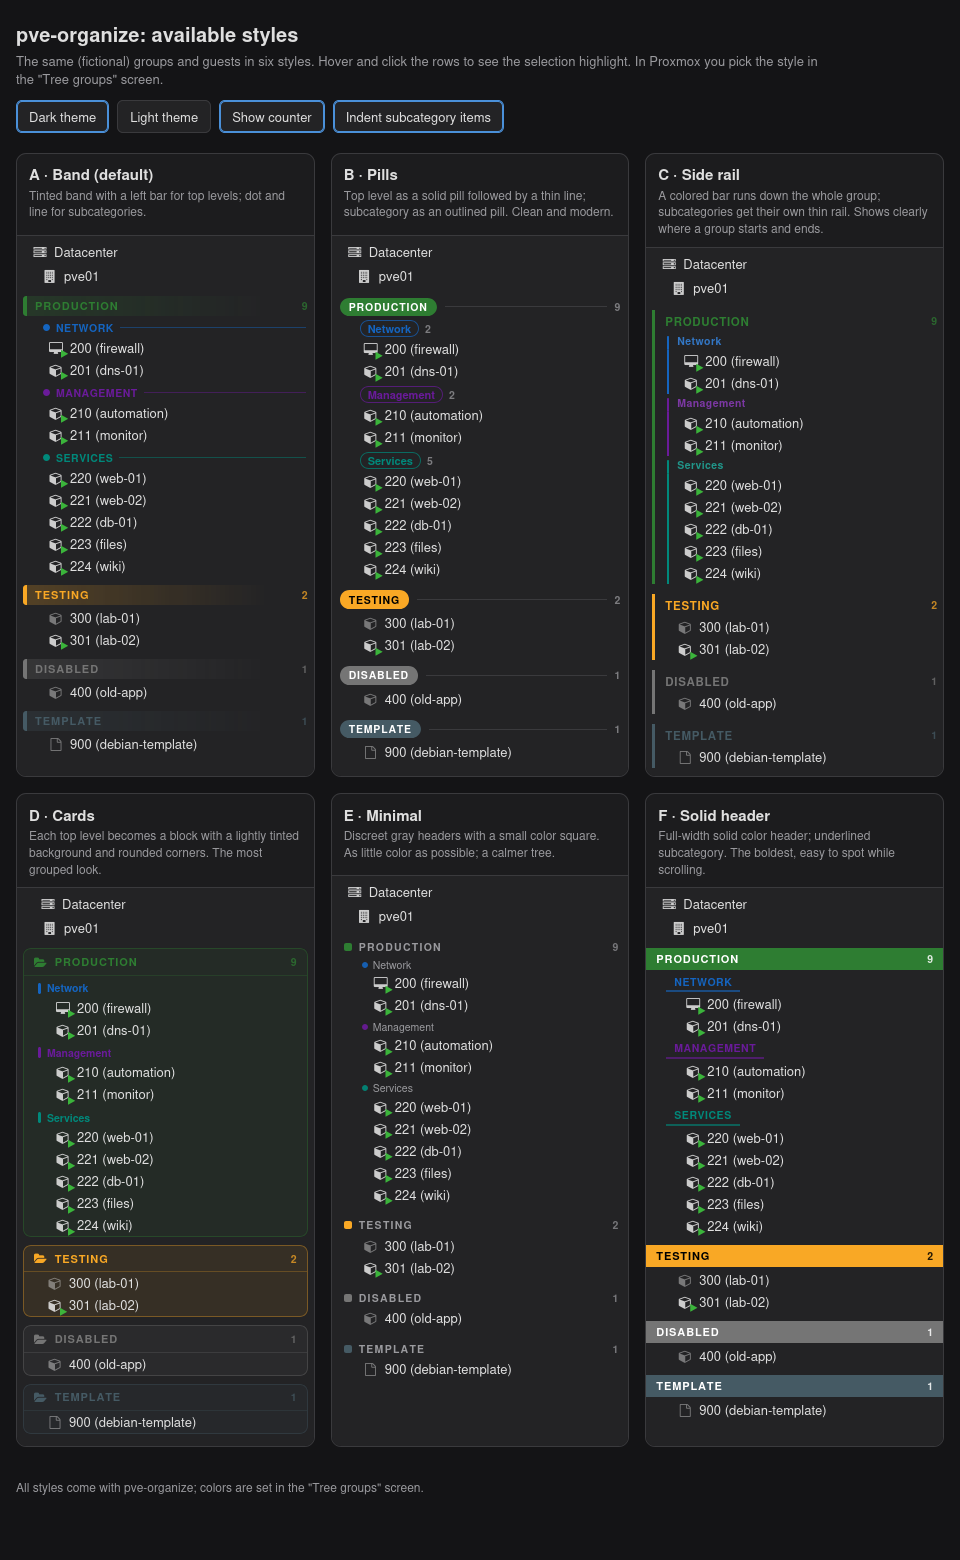
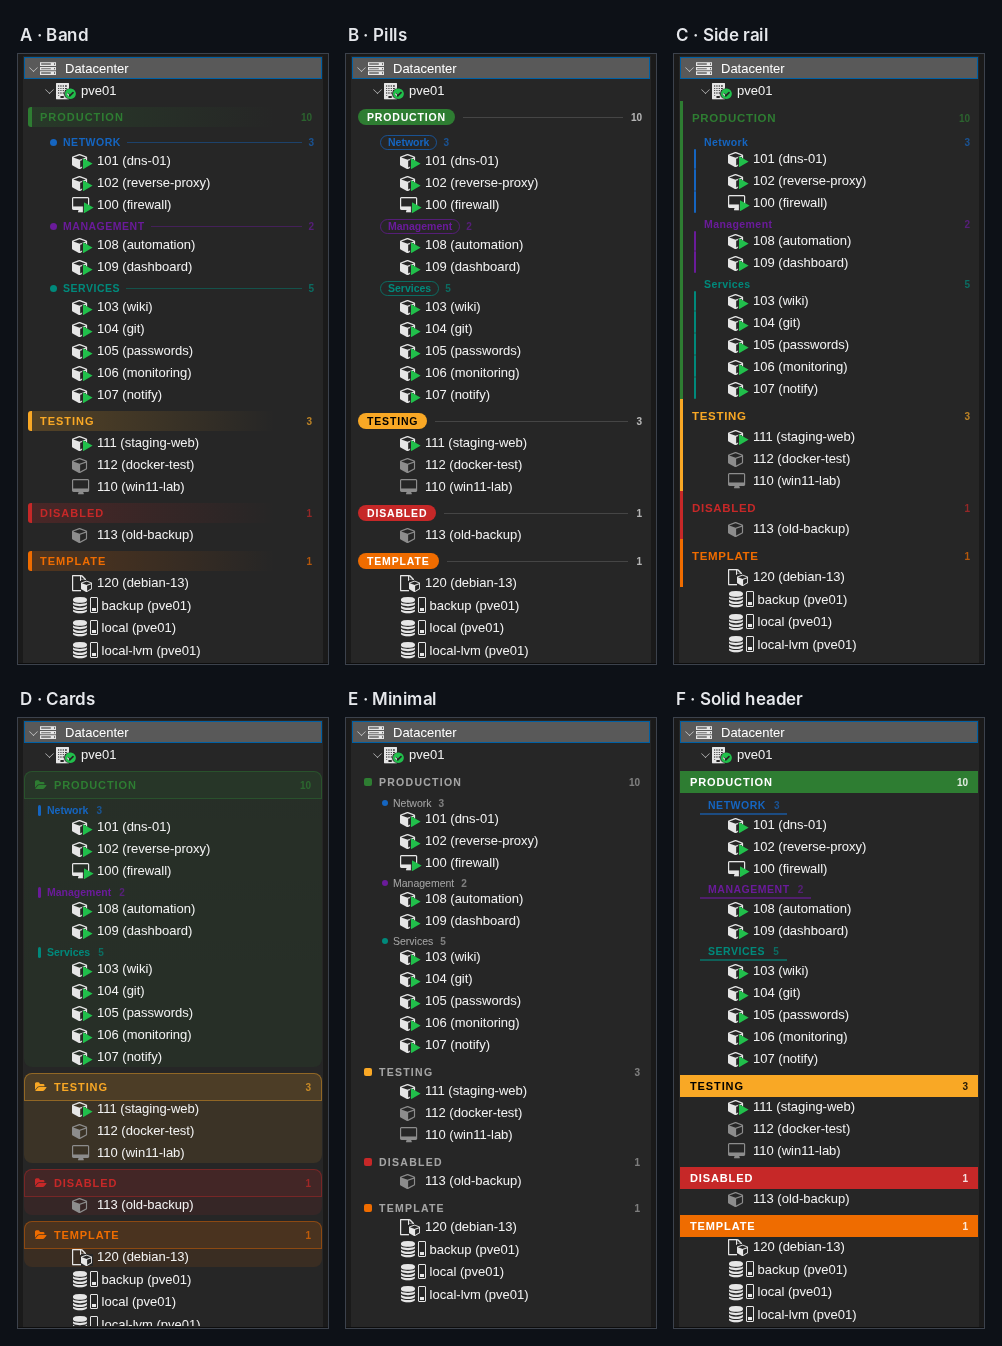
README: GIF de demonstração, capturas reais (dados fictícios) e terminal

Changed region(s): [[0.0, 0.0, 1.0, 0.9985], [0.9688, 0.7801, 1.0, 0.8113]]

diff --git a/README.pt-BR.md b/README.pt-BR.md
@@ -14,7 +14,9 @@
 > Organize VMs e containers em seções coloridas — como *Produção › Rede*, *Teste*,
 > *Modelo* — direto na Server View, com uma tela para escolher cores, ordem e estilo.
 
-![Os seis estilos](docs/estilos.png)
+![pve-organize funcionando: movendo um guest, trocando o estilo ao vivo, desligando e ligando](docs/demo.gif)
+
+<sub>Todas as imagens e animações usam um laboratório fictício (nó `pve01`), não um servidor real.</sub>
 
 - **Dois níveis**: um *topo* (título grande) e, se quiser, uma *subcategoria* (subtítulo) por servidor.
 - **Usa as tags do Proxmox**, nada novo guardado nos servidores. Um servidor com as tags
@@ -28,6 +30,32 @@
 - **Continua depois das atualizações do Proxmox** e sai com um comando.
 
 > Projeto da comunidade, sem ligação com a Proxmox Server Solutions GmbH.
+
+## Imagens
+
+**Antes e depois** — a árvore padrão com as tags, e os mesmos guests com o pve-organize:
+
+<img src="docs/antes-depois.png" alt="Antes e depois" width="560">
+
+**Os seis estilos** (escolha um em *Grupos da árvore…*):
+
+<img src="docs/estilos.png" alt="Os seis estilos" width="760">
+
+**Botão direito → Mover para grupo:**
+
+<img src="docs/menu.png" alt="Menu Mover para grupo" width="480">
+
+**Tela Grupos da árvore…** — cores, ordem, estilo e o botão LIGADOS/DESLIGADOS:
+
+<img src="docs/tela-grupos.png" alt="Tela Grupos da árvore" width="720">
+
+**Tema escuro e claro:**
+
+<img src="docs/temas.png" alt="Tema escuro e claro" width="560">
+
+**Segue o idioma do Proxmox** (português e espanhol):
+
+<img src="docs/idiomas.png" alt="Português e espanhol" width="860">
 
 ---
 
@@ -68,6 +96,8 @@ bash -c "$(curl -fsSL https://raw.githubusercontent.com/diego-luz/pve-organize/m
 
 Depois volte para a página do Proxmox no **navegador** e recarregue (**F5**).
 
+<img src="docs/terminal-instalar.png" alt="Instalando" width="720">
+
 <details>
 <summary>Instalar a partir de um clone (no mesmo terminal do nó)</summary>
 
@@ -83,7 +113,7 @@ cd pve-organize
 
 | Proxmox VE | pve-manager | proxmox-widget-toolkit | Kernel | Resultado |
 |---|---|---|---|---|
-| **9.2** | 9.2.25 | 5.2.10 | 7.0.14-26-pve | ✅ funciona (testado no tema escuro, interface em português) |
+| **9.2** | 9.2.25 | 5.2.10 | 7.0.14-26-pve | ✅ funciona (tema escuro e claro; interface em inglês, português e espanhol) |
 | **8.4** | 8.4.21 | — | — | ✅ funciona (testado em outro host e outra rede) |
 | 8.0–8.3 | — | — | — | ⚠ não testado; o instalador permite e avisa |
 
@@ -112,11 +142,13 @@ Servidores sem uma tag de topo conhecida aparecem no fim, em **Sem grupo**.
 No terminal do nó (**>_ Shell** da interface web ou SSH), como `root`:
 
 ```bash
-pve-organize status        # ligado / desligado
+pve-organize status        # ligado/desligado, script na interface, hook do apt, versão do Proxmox
 pve-organize off           # tira da interface (a configuração fica salva)
 pve-organize on            # carrega de novo
 pve-organize desinstalar   # remove tudo o que foi instalado
 ```
+
+<img src="docs/terminal.gif" alt="status, off e on" width="640">
 
 ## Como funciona
 

diff --git a/README.es.md b/README.es.md
@@ -15,7 +15,9 @@
 > *Pruebas*, *Plantilla* — directamente en la Server View, con una pantalla para elegir
 > colores, orden y estilo.
 
-![Los seis estilos](docs/estilos.png)
+![pve-organize en acción: mover un guest, cambiar el estilo en vivo, desactivar y activar](docs/demo.gif)
+
+<sub>Todas las imágenes y animaciones usan un laboratorio ficticio (nodo `pve01`), no un servidor real.</sub>
 
 - **Dos niveles**: un *nivel superior* (título grande) y, si quieres, una *subcategoría*
   (subtítulo) por servidor.
@@ -30,6 +32,32 @@
 - **Sobrevive a las actualizaciones de Proxmox** y se quita con un comando.
 
 > Proyecto de la comunidad, sin relación con Proxmox Server Solutions GmbH.
+
+## Imágenes
+
+**Antes y después** — el árbol estándar con etiquetas, y los mismos guests con pve-organize:
+
+<img src="docs/antes-depois.png" alt="Antes y después" width="560">
+
+**Los seis estilos** (elige uno en *Grupos del árbol…*):
+
+<img src="docs/estilos.png" alt="Los seis estilos" width="760">
+
+**Clic derecho → Mover a grupo:**
+
+<img src="docs/menu.png" alt="Menú Mover a grupo" width="480">
+
+**Pantalla Grupos del árbol…** — colores, orden, estilo y el botón ACTIVADOS/DESACTIVADOS:
+
+<img src="docs/tela-grupos.png" alt="Pantalla Grupos del árbol" width="720">
+
+**Tema oscuro y claro:**
+
+<img src="docs/temas.png" alt="Tema oscuro y claro" width="560">
+
+**Sigue el idioma de Proxmox** (portugués y español):
+
+<img src="docs/idiomas.png" alt="Portugués y español" width="860">
 
 ---
 
@@ -70,6 +98,8 @@ bash -c "$(curl -fsSL https://raw.githubusercontent.com/diego-luz/pve-organize/m
 
 Luego vuelve a la página de Proxmox en el **navegador** y recárgala (**F5**).
 
+<img src="docs/terminal-instalar.png" alt="Instalando" width="720">
+
 <details>
 <summary>Instalar desde un clon (en la misma terminal del nodo)</summary>
 
@@ -85,7 +115,7 @@ cd pve-organize
 
 | Proxmox VE | pve-manager | proxmox-widget-toolkit | Kernel | Resultado |
 |---|---|---|---|---|
-| **9.2** | 9.2.25 | 5.2.10 | 7.0.14-26-pve | ✅ funciona (probado con el tema oscuro y la interfaz en portugués) |
+| **9.2** | 9.2.25 | 5.2.10 | 7.0.14-26-pve | ✅ funciona (tema oscuro y claro; interfaz en inglés, portugués y español) |
 | **8.4** | 8.4.21 | — | — | ✅ funciona (probado en otro host y otra red) |
 | 8.0–8.3 | — | — | — | ⚠ no probado; el instalador lo permite y avisa |
 
@@ -115,11 +145,13 @@ Los servidores sin una etiqueta de nivel superior conocida aparecen al final, en
 En la terminal del nodo (**>_ Shell** de la interfaz web o SSH), como `root`:
 
 ```bash
-pve-organize status        # activado / desactivado
+pve-organize status        # activado/desactivado, script en la interfaz, hook de apt, versión de Proxmox
 pve-organize off           # lo quita de la interfaz (la configuración se conserva)
 pve-organize on            # lo carga de nuevo
 pve-organize desinstalar   # quita todo lo instalado (también: uninstall)
 ```
+
+<img src="docs/terminal.gif" alt="status, off y on" width="640">
 
 ## Cómo funciona
 

diff --git a/README.md b/README.md
@@ -15,7 +15,9 @@
 > *Testing*, *Template* — right inside the Server View, with a settings screen for colors,
 > order and style.
 
-![The six styles](docs/estilos.png)
+![pve-organize in action: moving a guest, changing the style live, turning it off and on](docs/demo.gif)
+
+<sub>All screenshots and animations use a fictitious lab (node `pve01`), not a real server.</sub>
 
 - **Two levels**: a *top level* (big header) and an optional *subcategory* (small header) per guest.
 - **Uses Proxmox tags** — nothing new to store on the guests. A guest tagged `Production;Network`
@@ -29,6 +31,32 @@
 - **Survives Proxmox updates** and is removed with a single command.
 
 > Community project, not affiliated with Proxmox Server Solutions GmbH.
+
+## Screenshots
+
+**Before and after** — the stock tree with tags, and the same guests with pve-organize:
+
+<img src="docs/antes-depois.png" alt="Before and after" width="560">
+
+**The six styles** (pick one in *Tree groups…*):
+
+<img src="docs/estilos.png" alt="The six styles" width="760">
+
+**Right-click → Move to group:**
+
+<img src="docs/menu.png" alt="Move to group menu" width="480">
+
+**Tree groups… screen** — colors, order, style and the ON/OFF switch:
+
+<img src="docs/tela-grupos.png" alt="Tree groups screen" width="720">
+
+**Dark and light themes:**
+
+<img src="docs/temas.png" alt="Dark and light themes" width="560">
+
+**Follows the Proxmox language** (Português and Español shown here):
+
+<img src="docs/idiomas.png" alt="Portuguese and Spanish" width="860">
 
 ---
 
@@ -69,6 +97,8 @@ bash -c "$(curl -fsSL https://raw.githubusercontent.com/diego-luz/pve-organize/m
 
 Then go back to the Proxmox page in your **browser** and reload it (**F5**).
 
+<img src="docs/terminal-instalar.png" alt="Installing" width="720">
+
 <details>
 <summary>Install from a clone instead (same shell on the node)</summary>
 
@@ -84,7 +114,7 @@ cd pve-organize
 
 | Proxmox VE | pve-manager | proxmox-widget-toolkit | Kernel | Result |
 |---|---|---|---|---|
-| **9.2** | 9.2.25 | 5.2.10 | 7.0.14-26-pve | ✅ works (tested with the dark theme and the Portuguese UI) |
+| **9.2** | 9.2.25 | 5.2.10 | 7.0.14-26-pve | ✅ works (dark and light themes; English, Portuguese and Spanish UI) |
 | **8.4** | 8.4.21 | — | — | ✅ works (tested on another host and network) |
 | 8.0–8.3 | — | — | — | ⚠ not tested; the installer allows it and warns |
 
@@ -113,11 +143,13 @@ Guests without a known top-level tag appear at the end, under **No group**.
 In the node's shell (web UI **>_ Shell** or SSH), as `root`:
 
 ```bash
-pve-organize status      # on / off
+pve-organize status      # ON/OFF, web UI script, apt hook, Proxmox version
 pve-organize off         # remove from the web UI (settings are kept)
 pve-organize on          # load it again
 pve-organize uninstall   # remove everything that was installed
 ```
+
+<img src="docs/terminal.gif" alt="status, off and on" width="640">
 
 ## How it works
 
